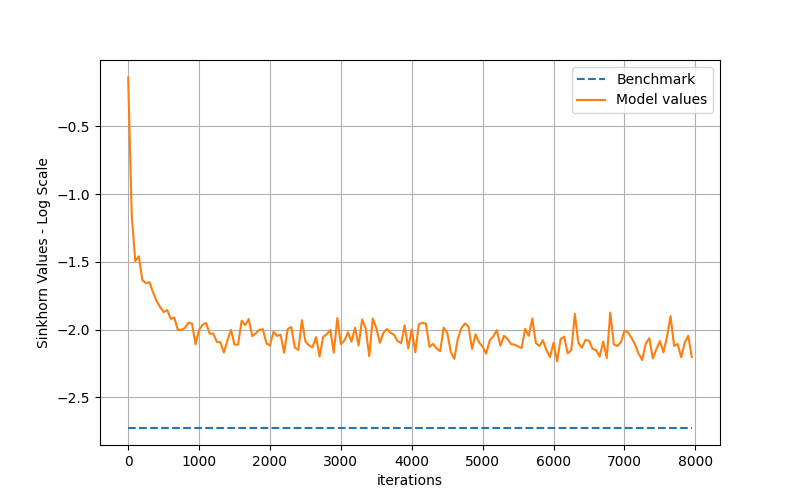
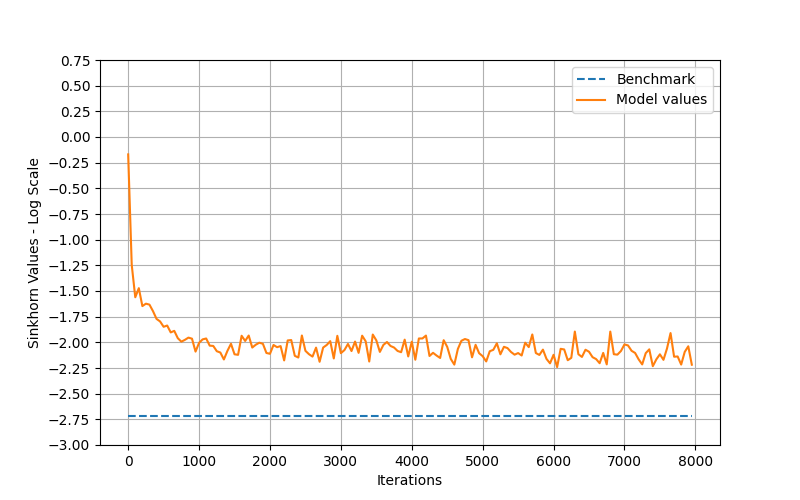
1- Modified the names for iter-loss/sinkhorn and anim file 2- Make 3 test runs : a - BasicDiscreteTime with time-embedding b-one without time embedding c- one with naive-nn

diff --git a/diffusion/ddpm/main.py b/diffusion/ddpm/main.py
@@ -105,14 +105,22 @@ def train(
                        sinkhorn_values=sinkhorn_values)
 
 
-def plot_metrics(result: TrainResult, noise_model_name: str):
+def plot_metrics(result: TrainResult, noise_model_name: str, with_time_emb: bool):
     # plot losses
+
     x = list(range(len(result.ema_losses)))
     plt.xlabel("Iterations")
     plt.ylabel("EMA loss - Log scale")
     plt.title("Loss-Iterations curve")
     plt.plot(x, np.log(result.ema_losses))
-    plt.savefig(f"iter_loss_noise_model_{noise_model_name}.png")
+
+    if noise_model_name == "basic_discrete_time":
+        outfile_name = f"iter_loss_noise_model_{noise_model_name}_with_time_emb_{with_time_emb}.png"
+    elif noise_model_name == "naive_nn":
+        outfile_name = f"iter_loss_noise_model_{noise_model_name}.png"
+    else:
+        raise ValueError(f"Unknown noise_model_name : {noise_model_name}")
+    plt.savefig(outfile_name)
 
     plt.clf()
 
@@ -123,16 +131,23 @@ def plot_metrics(result: TrainResult, noise_model_name: str):
     max_log_y = np.maximum(max(np.log(y1)), max(np.log(y2)))
     plt.plot(x, np.log(y1), '--', label="Benchmark")
     plt.plot(x, np.log(y2), '-', label="Model values")
-    # plt.yticks(list(np.arange(0, max_log_y + 1, 0.05)))
-    plt.xlabel("iterations")
+    plt.yticks(list(np.arange(-3.0, 1.0, 0.25)))
+    plt.xlabel("Iterations")
     plt.ylabel("Sinkhorn Values - Log Scale")
     plt.legend(loc="upper right")
     plt.grid()
-    plt.savefig(f"iter_sinkhorn_noise_model_{noise_model_name}.png")
+
+    if noise_model_name == "basic_discrete_time":
+        outfile_name = f"iter_sinkhorn_noise_model_{noise_model_name}_with_time_emb_{with_time_emb}.png"
+    elif noise_model_name == "naive_nn":
+        outfile_name = f"iter_sinkhorn_noise_model_{noise_model_name}.png"
+    else:
+        raise ValueError(f"Unknown noise_model_name : {noise_model_name}")
+    plt.savefig(outfile_name)
     plt.clf()  # clearing figure buffer for any future plotting
 
 
-def animate(samples: List[Any], noise_model_name: str, save: bool = True):
+def animate(samples: List[Any], noise_model_name: str, with_time_emb: bool, save: bool = True):
     fig, ax = plt.subplots(figsize=(8, 5))
     ax.set(xlim=(-2.0, 2.0), ylim=(-2.0, 2.0))
     first_sample = samples[0].detach().cpu().numpy().T
@@ -142,15 +157,24 @@ def animate(samples: List[Any], noise_model_name: str, save: bool = True):
         offsets = samples[i].detach().cpu().numpy()
         scat.set_offsets(offsets)
 
+    logger.info(f"Generating animation file...")
     anim = animation.FuncAnimation(fig, animate, interval=100, frames=len(samples) - 1)
     if save:
-        anim.save(filename=f"animation_noise_model_{noise_model_name}.gif", writer=animation.PillowWriter(fps=5))
+        if noise_model_name == "basic_discrete_time":
+            outfile_name = f"animation_noise_model_{noise_model_name}_with_time_emb_{str(with_time_emb)}.gif"
+        elif noise_model_name == "naive_nn":
+            outfile_name = f"animation_noise_model_{noise_model_name}.gif"
+        else:
+            raise ValueError(f"Unknown noise_model_name : {noise_model_name}")
+        logger.info(f"Saving animation to file : {outfile_name}")
+        anim.save(filename=outfile_name, writer=animation.PillowWriter(fps=5))
     plt.clf()
     return anim
 
 
 def main(
         noise_model_name: str,
+        with_time_emb: bool = True,  # this parma is not effective for all noise-models
         time_steps: int = 100,
         hidden_dim_model: int = 128,
         num_layers: int = 2,
@@ -159,12 +183,14 @@ def main(
         sample_size: int = 512,
         steps_between_sampling: int = 50,
         seed: int = 42,
+
 ):
     device = torch.device("cuda")
     logger.info("Creating model")
     noise_model = None
     if noise_model_name == "basic_discrete_time":
-        noise_model = BasicDiscreteTimeModel(hidden_model_dim=hidden_dim_model, num_resnet_layers=num_layers).to(device)
+        noise_model = BasicDiscreteTimeModel(model_dim=hidden_dim_model, num_resnet_layers=num_layers,
+                                             with_time_emb=with_time_emb).to(device)
     elif noise_model_name == "naive_nn":
         noise_model = NaiveNeuralNetworkNoiseModel(time_steps=time_steps).to(device)
     else:
@@ -186,9 +212,9 @@ def main(
     )
 
     path = Path(__file__).parent / "animation.gif"
-    logger.info(f"Animating and saving to {path}")
-    animate(samples=result.samples, noise_model_name=noise_model_name)
-    plot_metrics(result=result, noise_model_name=noise_model_name)
+
+    animate(samples=result.samples, noise_model_name=noise_model_name, with_time_emb=with_time_emb)
+    plot_metrics(result=result, noise_model_name=noise_model_name, with_time_emb=with_time_emb)
 
 
 if __name__ == "__main__":

diff --git a/diffusion/ddpm/models.py b/diffusion/ddpm/models.py
@@ -12,7 +12,7 @@ class PositionalEncoding(nn.Module):
 
     def __init__(
             self,
-            d_model: int = 128,
+            model_dim: int = 128,
             maxlen: int = 1024,
             min_freq: float = 1e-4,
             device: str = "cpu",
@@ -20,21 +20,21 @@ class PositionalEncoding(nn.Module):
     ):
         """
         Args:
-            d_model (int, optional): embedding dimension of each token. Defaults to 128.
+            model_dim (int, optional): embedding dimension of each token. Defaults to 128.
             maxlen (int, optional): maximum sequence length. Defaults to 1024.
             min_freq (float, optional): use the magic 1/10,000 value! Defaults to 1e-4.
             device (str, optional): accelerator or nah. Defaults to "cpu".
             dtype (_type_, optional): torch dtype. Defaults to torch.float32.
         """
         super().__init__()
-        pos_enc = self._get_pos_enc(d_model=d_model, maxlen=maxlen, min_freq=min_freq)
+        pos_enc = self._get_pos_enc(model_dim=model_dim, maxlen=maxlen, min_freq=min_freq)
         self.register_buffer(
             "pos_enc", torch.tensor(pos_enc, dtype=dtype, device=device)
         )
 
-    def _get_pos_enc(self, d_model: int, maxlen: int, min_freq: float):
+    def _get_pos_enc(self, model_dim: int, maxlen: int, min_freq: float):
         position = np.arange(maxlen)
-        freqs = min_freq ** (2 * (np.arange(d_model) // 2) / d_model)
+        freqs = min_freq ** (2 * (np.arange(model_dim) // 2) / model_dim)
         pos_enc = position[:, None] * freqs[None]
         pos_enc[:, ::2] = np.cos(pos_enc[:, ::2])
         pos_enc[:, 1::2] = np.sin(pos_enc[:, 1::2])
@@ -69,29 +69,38 @@ class DiscreteTimeResidualBlock(nn.Module):
     """Generic block to learn a nonlinear function f(x, t), where
     t is discrete and x is continuous."""
 
-    def __init__(self, d_model: int, maxlen: int = 512):
+    def __init__(self, model_dim: int, maxlen: int = 512, with_time_emb: bool = True):
         super().__init__()
-        self.d_model = d_model
-        self.emb = PositionalEncoding(d_model=d_model, maxlen=maxlen)
-        self.lin1 = nn.Linear(d_model, d_model)
-        self.lin2 = nn.Linear(d_model, d_model)
-        self.norm = nn.LayerNorm(d_model)
+        self.model_dim = model_dim
+        self.emb = PositionalEncoding(model_dim=model_dim, maxlen=maxlen)
+        self.lin1 = nn.Linear(model_dim, model_dim)
+        self.lin2 = nn.Linear(model_dim, model_dim)
+        self.norm = nn.LayerNorm(model_dim)
         self.act = nn.GELU()
+        self.with_time_emb = with_time_emb
 
     def forward(self, x, t):
-        return self.norm(x + self.lin2(self.act(self.lin1(x + self.emb(t)))))
+
+        if self.with_time_emb:
+            t_emb = self.emb(t)
+            x_input = x + t_emb
+        else:
+            x_input = x
+        return self.norm(x + self.lin2(self.act(self.lin1(x_input))))
 
 
 class BasicDiscreteTimeModel(nn.Module):
-    def __init__(self, hidden_model_dim: int = 128, data_dim: int = 2, num_resnet_layers: int = 2):
+    def __init__(self, model_dim: int = 128, data_dim: int = 2, num_resnet_layers: int = 2, with_time_emb: bool = True):
         super().__init__()
-        self.d_model = hidden_model_dim
+        self.model_dim = model_dim
         self.n_layers = num_resnet_layers
-        self.lin_in = nn.Linear(data_dim, hidden_model_dim)
-        self.lin_out = nn.Linear(hidden_model_dim, data_dim)
+        self.lin_in = nn.Linear(data_dim, model_dim)
+        self.lin_out = nn.Linear(model_dim, data_dim)
         self.blocks = nn.ModuleList(
-            [DiscreteTimeResidualBlock(d_model=hidden_model_dim) for _ in range(num_resnet_layers)]
+            [DiscreteTimeResidualBlock(model_dim=model_dim, with_time_emb=with_time_emb) for _ in
+             range(num_resnet_layers)]
         )
+        logger.info(f"with_time_embedding ? {with_time_emb}")
 
     def forward(self, x, t):
         x = self.lin_in(x)
